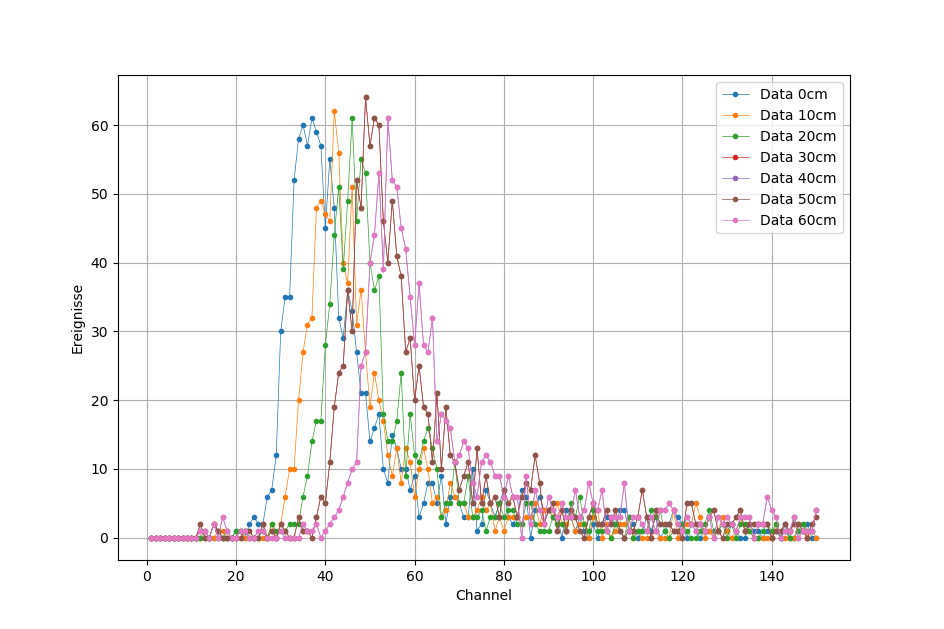
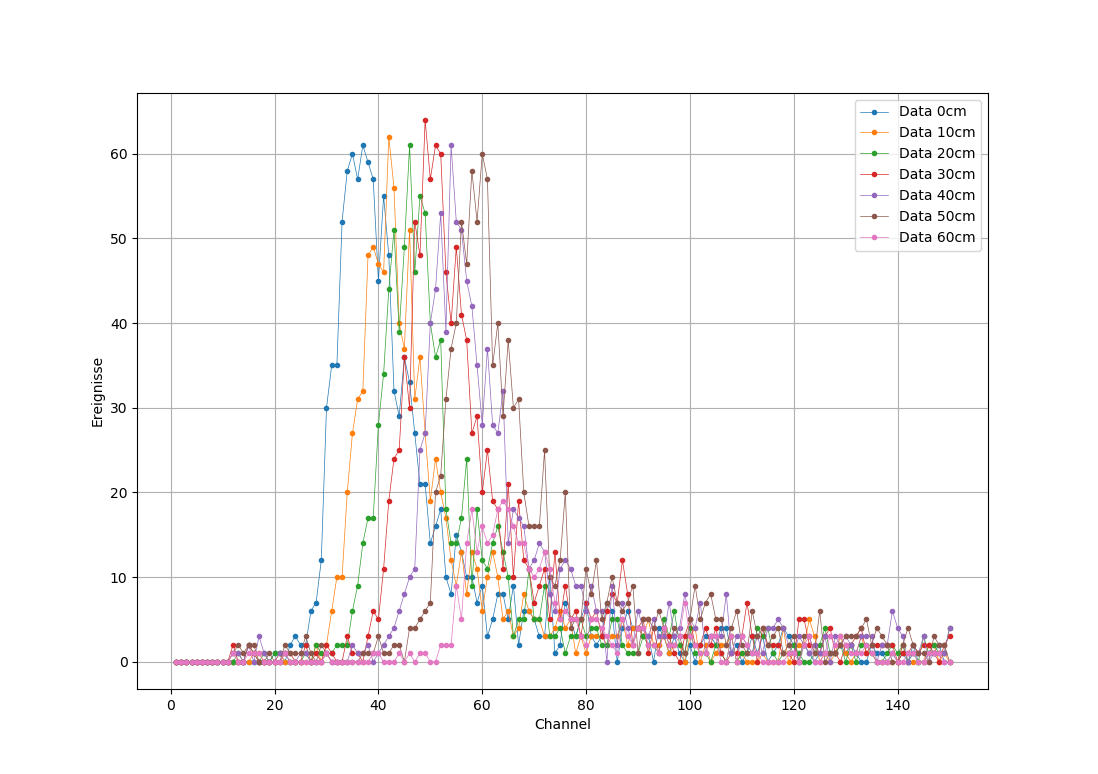
Positronium plot fix 2

diff --git a/Positronium/positronium.py b/Positronium/positronium.py
@@ -179,8 +179,8 @@ def aufgabe4(delt,m):
     x20,y20 = np.loadtxt("data/20cm.RPT", unpack = True)
     x30,y30 = np.loadtxt("data/30cm.RPT", unpack = True)
     x40,y40 = np.loadtxt("data/40cm.RPT", unpack = True)
-    x50,y50 = np.loadtxt("data/30cm.RPT", unpack = True)
-    x60,y60 = np.loadtxt("data/40cm.RPT", unpack = True)
+    x50,y50 = np.loadtxt("data/50cm.RPT", unpack = True)
+    x60,y60 = np.loadtxt("data/60cm.RPT", unpack = True)
 
     data = [x0,y0,x10,y10,x20,y20,x30,y30,x40,y40,x50,y50,x60,y60]
     labell = ["Data 0cm","Data 10cm","Data 20cm","Data 30cm","Data 40cm","Data 50cm","Data 60cm"]
@@ -195,14 +195,14 @@ def aufgabe4(delt,m):
     plt.ylabel("Ereignisse")
     plt.legend()
     plt.grid(True)
-    plt.show()
+    #plt.show()
     plt.clf()
 
 
     #find peaks
     peakpos = []
     tpeak = []
-    abs = [0,0.1,0.2,0.3,0.4]
+    abs = [0,0.1,0.2,0.3,0.4,0.5,0.6]
     for i in range(0,len(data),2):
         peak = np.argmax([data[i+1]])
         peakpos += [data[i+1][peak]]
@@ -210,10 +210,10 @@ def aufgabe4(delt,m):
 
     mf, c, r_v, p_v, std_err = stats.linregress(tpeak,abs)
 
-    xw = np.linspace(2.5,5,300)
+    xw = np.linspace(2.5,5.3,300)
 
     c0 = uc.ufloat(mf,std_err) * 1e9
-    print(c0)
+    #print(c0)
 
     plt.plot(tpeak,abs,"b.", label="peaks für jeden abstand")
     plt.plot(xw,mf*xw+c,"r-", label="fit")
@@ -221,7 +221,7 @@ def aufgabe4(delt,m):
     plt.ylabel("Abstand in m")
     plt.legend()
     plt.grid(True)
-    #plt.show()
+    plt.show()
     plt.clf()
 
     return;
